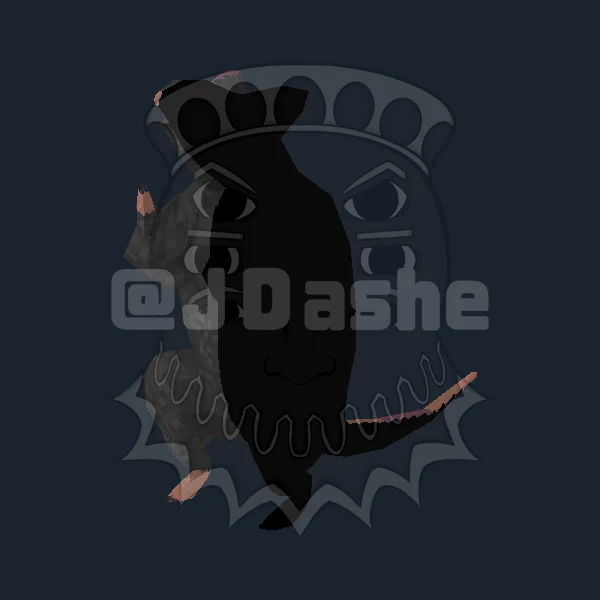
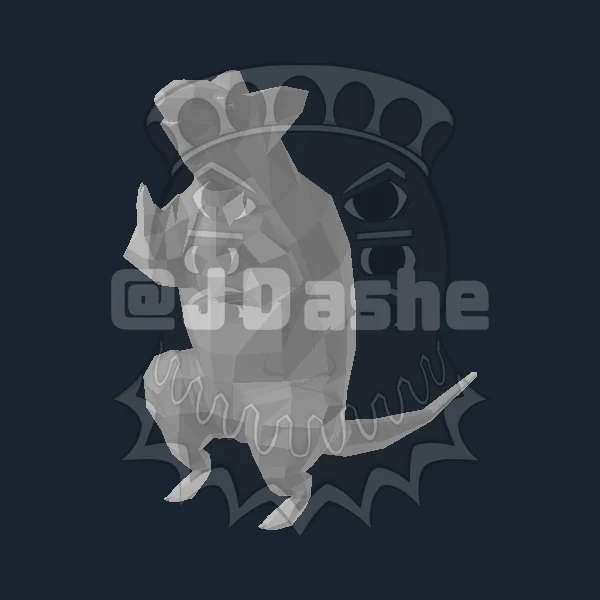
mas modelos añadidos

Changed region(s): [[0.21, 0.12, 0.78, 0.9], [0.78, 0.6, 0.81, 0.63]]

diff --git a/models-data.js b/models-data.js
@@ -18,7 +18,8 @@ export const models = [
       }
     },
     "textureType": "pixel",
-    "triangles": 4168
+    "triangles": 4168,
+    "project": "time-bender"
   },
   {
     "id": "rata",
@@ -29,16 +30,10 @@ export const models = [
     },
     "url": "assets/models/rata/model.glb",
     "poster": "assets/models/rata/cover.webp",
-    "textures": {
-      "default": {
-        "metalnessMap": "assets/models/rata/default-metalnessMap.png",
-        "aoMap": "assets/models/rata/default-aoMap.png",
-        "map": "assets/models/rata/default-map.png",
-        "emissiveMap": "assets/models/rata/default-emissiveMap.png"
-      }
-    },
-    "textureType": "pixel",
-    "triangles": 1356
+    "textures": {},
+    "textureType": "none",
+    "triangles": 1356,
+    "project": "time-bender"
   },
   {
     "id": "rata-humanizada",
@@ -51,14 +46,15 @@ export const models = [
     "poster": "assets/models/rata-humanizada/cover.webp",
     "textures": {
       "default": {
-        "metalnessMap": "assets/models/rata-humanizada/default-metalnessMap.png",
-        "aoMap": "assets/models/rata-humanizada/default-aoMap.png",
         "map": "assets/models/rata-humanizada/default-map.png",
-        "emissiveMap": "assets/models/rata-humanizada/default-emissiveMap.png"
+        "emissiveMap": "assets/models/rata-humanizada/default-emissiveMap.png",
+        "roughnessMap": "assets/models/rata-humanizada/default-roughnessMap.png",
+        "metalnessMap": "assets/models/rata-humanizada/default-metalnessMap.png"
       }
     },
-    "textureType": "pixel",
-    "triangles": 1316
+    "textureType": "supplied",
+    "triangles": 1316,
+    "project": "time-bender"
   },
   {
     "id": "mano",
@@ -77,7 +73,8 @@ export const models = [
       }
     },
     "textureType": "pixel",
-    "triangles": 346
+    "triangles": 346,
+    "project": "time-bender"
   },
   {
     "id": "armario",
@@ -96,7 +93,8 @@ export const models = [
       }
     },
     "textureType": "pixel",
-    "triangles": 508
+    "triangles": 508,
+    "project": "time-bender"
   },
   {
     "id": "reloj",
@@ -125,7 +123,8 @@ export const models = [
       }
     },
     "textureType": "pixel",
-    "triangles": 288
+    "triangles": 288,
+    "project": "time-bender"
   },
   {
     "id": "tubo-cristal",
@@ -165,7 +164,8 @@ export const models = [
       }
     },
     "textureType": "pixel",
-    "triangles": 1048
+    "triangles": 1048,
+    "project": "time-bender"
   },
   {
     "id": "silla",
@@ -184,7 +184,8 @@ export const models = [
       }
     },
     "textureType": "pixel",
-    "triangles": 1292
+    "triangles": 1292,
+    "project": "time-bender"
   },
   {
     "id": "tuberia",
@@ -203,7 +204,8 @@ export const models = [
       }
     },
     "textureType": "pixel",
-    "triangles": 1412
+    "triangles": 1412,
+    "project": "time-bender"
   },
   {
     "id": "palanca",
@@ -222,7 +224,8 @@ export const models = [
       }
     },
     "textureType": "pixel",
-    "triangles": 64
+    "triangles": 64,
+    "project": "time-bender"
   },
   {
     "id": "caja-chip",
@@ -241,7 +244,8 @@ export const models = [
       }
     },
     "textureType": "pixel",
-    "triangles": 80
+    "triangles": 80,
+    "project": "time-bender"
   },
   {
     "id": "cronometrita",
@@ -262,7 +266,8 @@ export const models = [
       }
     },
     "textureType": "original",
-    "triangles": 192
+    "triangles": 192,
+    "project": "time-bender"
   },
   {
     "id": "chip",
@@ -282,7 +287,8 @@ export const models = [
       }
     },
     "textureType": "supplied",
-    "triangles": 776
+    "triangles": 776,
+    "project": "time-bender"
   },
   {
     "id": "valla",
@@ -301,6 +307,7 @@ export const models = [
       }
     },
     "textureType": "supplied",
-    "triangles": 116
+    "triangles": 116,
+    "project": "time-bender"
   }
 ];

diff --git a/viewer3d.js b/viewer3d.js
@@ -20,6 +20,7 @@ const labels = {
     local: 'Abre esta página desde GitHub Pages o un servidor local para usar el visor.',
     retry: 'Reintentar',
     triangles: 'triángulos',
+    none: 'Sin texturas',
     pixel: 'Texturas pixelizadas',
     original: 'Texturas originales',
     supplied: 'Texturas del modelo',
@@ -36,6 +37,7 @@ const labels = {
     local: 'Open this page on GitHub Pages or a local server to use the viewer.',
     retry: 'Retry',
     triangles: 'triangles',
+    none: 'Untextured',
     pixel: 'Pixelated textures',
     original: 'Original textures',
     supplied: 'Model textures',
@@ -46,6 +48,8 @@ const labels = {
     canvas: '3D model: drag to rotate, scroll to zoom. Camera buttons are also available.',
   },
 };
+const projectNames = { 'time-bender': 'Time Bender' };
+
 let language = document.documentElement.lang === 'en' ? 'en' : 'es';
 let selected = models.find((model) => `#${model.id}` === location.hash) || models[0];
 let renderer, controls, scene, camera;
@@ -66,7 +70,7 @@ function refreshLabels() {
   document.title = `${language === 'en' ? '3D art' : 'Arte 3D'} — Jose Manuel Pastor González`;
   document.querySelector('#model-name').textContent = selected.title[language];
   document.querySelector('#model-counter').textContent =
-    `${String(models.indexOf(selected) + 1).padStart(2, '0')} / ${models.length} · GAME JAM`;
+    `${String(models.indexOf(selected) + 1).padStart(2, '0')} / ${models.length} · ${projectNames[selected.project] || selected.project}`;
   document.querySelector('#model-meta').textContent =
     `${selected.triangles.toLocaleString(language)} ${text.triangles} · ${text[selected.textureType]}`;
   poster.alt = selected.title[language];
@@ -107,6 +111,7 @@ function buildGallery() {
     const button = document.createElement('button');
     button.type = 'button';
     button.className = 'model-card';
+    button.dataset.project = model.project;
     const image = document.createElement('img');
     image.src = model.poster;
     image.width = image.height = 600;
@@ -387,6 +392,24 @@ window.addEventListener('hashchange', () => {
   const model = models.find((item) => `#${item.id}` === location.hash);
   if (model && model !== selected) selectModel(model);
 });
+
+// Una sola escena WebGL; el filtro controla las miniaturas disponibles.
+const projectFilter = document.querySelector('#model-project');
+projectFilter.addEventListener('change', () => {
+  const project = projectFilter.value;
+  gallery.querySelectorAll('.model-card').forEach((card) => {
+    card.hidden = project !== 'all' && card.dataset.project !== project;
+  });
+  const first = models.find((model) => project === 'all' || model.project === project);
+  if (first && project !== 'all' && selected.project !== project) selectModel(first);
+  gallery.scrollTo({ left: 0, behavior: 'auto' });
+});
+for (const [id, direction] of [['gallery-prev', -1], ['gallery-next', 1]]) {
+  document.querySelector(`#${id}`).addEventListener('click', () => {
+    gallery.scrollBy({ left: direction * gallery.clientWidth * 0.75,
+      behavior: reducedMotion.matches ? 'auto' : 'smooth' });
+  });
+}
 
 buildGallery();
 refreshLabels();

diff --git a/arte3d.html b/arte3d.html
@@ -6,7 +6,7 @@
     <meta name="theme-color" content="#243341">
     <meta
       name="description"
-      content="Arte 3D de Jose Manuel Pastor González. Explora 14 modelos con texturas y wireframe."
+      content="Arte 3D de Jose Manuel Pastor González. Explora mis modelos con texturas y wireframe."
     >
     <title>
       Arte 3D — Jose Manuel Pastor González
@@ -86,7 +86,7 @@
         </nav>
         <p class="eyebrow" data-t="modelArchive">ARCHIVO / ARTE 3D</p>
         <h1 data-t="modelHeading">Mis ideas,<br>desde todos los ángulos.</h1>
-        <p class="model-intro-copy" data-t="modelIntro">Personajes y objetos creados para una game jam. Acércate, gíralos y explora cómo están construidos.</p>
+        <p class="model-intro-copy" data-t="modelIntro">Personajes, objetos y escenarios: mis ideas toman forma en 3D. Explora trabajos de distintos proyectos, acércate a sus detalles y descubre cómo están construidos.</p>
       </section>
       <section class="wrap model-section" aria-labelledby="model-name">
         <div class="model-heading-row">
@@ -118,7 +118,16 @@
         </div>
         <p class="model-instructions" data-t="modelInstructions">Arrastra para girar · Rueda o pellizco para acercar · Botón derecho o dos dedos para desplazar. El giro se reanuda tras 5 segundos sin interacción.</p>
         <p class="model-wire-note" data-t="modelWireNote">Wireframe muestra los triángulos de la malla exportada.</p>
-        <div class="model-gallery-heading"><h2 data-t="modelCollection">Explora la colección</h2><span>14 / GAME JAM</span></div>
+        <div class="model-gallery-heading"><h2 data-t="modelCollection">Explora la colección</h2><span data-t="modelBrowse">Desplázate para ver más modelos →</span></div>
+        <div class="model-project-filter">
+          <label for="model-project" data-t="modelProject">Proyecto</label>
+          <select id="model-project">
+            <option value="all" data-t="modelAllProjects">Todos los proyectos</option>
+            <option value="time-bender">Time Bender · Game jam</option>
+          </select>
+          <button type="button" id="gallery-prev" aria-label="Modelos anteriores / Previous models">←</button>
+          <button type="button" id="gallery-next" aria-label="Más modelos / More models">→</button>
+        </div>
         <div id="model-gallery" class="model-gallery" aria-label="Modelos / Models"></div>
         <noscript><p>Activa JavaScript para utilizar el visor 3D. / Enable JavaScript to use the 3D viewer.</p></noscript>
       </section>

diff --git a/content.js b/content.js
@@ -470,8 +470,8 @@ Object.assign(translations.es, {
   art3DLink: "Explorar mi arte 3D ↗",
   modelArchive: "ARCHIVO / ARTE 3D",
   modelHeading: "Mis ideas,<br>desde todos los ángulos.",
-  modelIntro: "Personajes y objetos creados para una game jam. Acércate, gíralos y explora cómo están construidos.",
-  modelMetaDescription: "Arte 3D de Jose Manuel Pastor González. Explora 14 modelos con texturas, giro interactivo y vista wireframe.",
+  modelIntro: "Personajes, objetos y escenarios: mis ideas toman forma en 3D. Explora trabajos de distintos proyectos, acércate a sus detalles y descubre cómo están construidos.",
+  modelMetaDescription: "Arte 3D de Jose Manuel Pastor González. Explora mis modelos con texturas, giro interactivo y vista wireframe.",
   modelTextured: "Texturizado",
   modelOverlay: "Textura + wireframe",
   modelRotation: "Giro automático",
@@ -486,8 +486,8 @@ Object.assign(translations.en, {
   art3DLink: "Explore my 3D art ↗",
   modelArchive: "ARCHIVE / 3D ART",
   modelHeading: "My ideas,<br>from every angle.",
-  modelIntro: "Characters and props created for a game jam. Get closer, rotate them and explore how they are built.",
-  modelMetaDescription: "3D art by Jose Manuel Pastor González. Explore 14 models with textures, interactive rotation and wireframe views.",
+  modelIntro: "Characters, props and environments: my ideas take shape in 3D. Explore work from different projects, get closer to the details and discover how they are built.",
+  modelMetaDescription: "3D art by Jose Manuel Pastor González. Explore my models with textures, interactive rotation and wireframe views.",
   modelTextured: "Textured",
   modelOverlay: "Texture + wireframe",
   modelRotation: "Auto-rotate",
@@ -496,3 +496,7 @@ Object.assign(translations.en, {
   modelWireNote: "Wireframe shows the triangles of the exported mesh.",
   modelCollection: "Explore the collection"
 });
+
+// Navegación por proyectos del archivo 3D.
+Object.assign(translations.es, { modelProject: "Proyecto", modelAllProjects: "Todos los proyectos", modelBrowse: "Desplázate para ver más modelos →" });
+Object.assign(translations.en, { modelProject: "Project", modelAllProjects: "All projects", modelBrowse: "Scroll to explore more models →" });

diff --git a/viewer3d.css b/viewer3d.css
@@ -120,3 +120,23 @@
   .model-card { flex: 0 0 155px; scroll-snap-align: start; }
   .model-gallery-heading { align-items: start; flex-direction: column; gap: 8px; }
 }
+
+/* Una fila desplazable en escritorio, tablet y móvil. */
+.model-gallery {
+  display: flex;
+  overflow-x: auto;
+  scroll-snap-type: x proximity;
+  padding: 4px 2px 16px;
+  scrollbar-color: var(--lime) var(--deep);
+  scrollbar-width: auto;
+}
+.model-card { flex: 0 0 clamp(155px, 18vw, 205px); scroll-snap-align: start; }
+.model-card[hidden] { display: none; }
+.model-project-filter { display: flex; align-items: center; flex-wrap: wrap; gap: 12px; margin-bottom: 18px; }
+.model-project-filter select, .model-project-filter button {
+  background: var(--deep); color: var(--text); border: 1px solid var(--line);
+  padding: 10px 14px; min-height: 44px; font: inherit;
+}
+.model-project-filter select { flex: 1; max-width: 400px; min-width: 180px; }
+.model-project-filter button { cursor: pointer; }
+.model-project-filter button:hover { border-color: var(--lime); }

diff --git a/README.md b/README.md
@@ -208,8 +208,8 @@ al abrir el HTML directamente con doble clic (`file://`).
   No depende de un CDN ni necesita compilarse para publicarlo en GitHub Pages.
 
 La galería contiene 14 modelos. Robot usa `robot_final` y `robot/pixeladas2`;
-las dos ratas son `rata` y `rata humanizada` (con espacio) y comparten las texturas
-de `rata`; mano usa `Mano_final`. Se excluyen los FBX alternativos descartados y los
+la rata normal se presenta sin texturas y la humanizada usa el FBX y los mapas
+del paquete Rata(1).zip; mano usa `Mano_final`. Se excluyen los FBX alternativos descartados y los
 proyectos MAX del paquete web. Cronometrita utiliza sus mapas originales porque
 la carpeta pixelizada está vacía. Chip y valla usan el segundo ZIP suministrado.
 
@@ -230,3 +230,13 @@ Las portadas se renderizan a partir de las mallas y sus UV, con la marca de agua
 incorporada. El visor muestra la misma marca como superposición, sin reducir otra
 vez su opacidad. Una marca superpuesta no impide extraer un modelo servido al
 navegador. Se mantienen los avisos de derechos del portfolio.
+
+La colección actual pertenece a Time Bender. La introducción abarca arte 3D de
+distintos proyectos. Las miniaturas forman una única fila horizontal desplazable
+en todos los tamaños, con flechas y selector de proyecto. Cada entrada de
+models-data.js tiene una clave project; al añadir otro proyecto, incorpora su
+opción en model-project y añade su nombre a projectNames en viewer3d.js.
+
+Pendiente: el proyecto nórdico se ha recibido principalmente en MAX. Para
+incorporar la escena, Garth y el barco, se necesitan exportaciones FBX o GLB
+con UV y materiales. Los originales MAX no se incluyen en la web.
